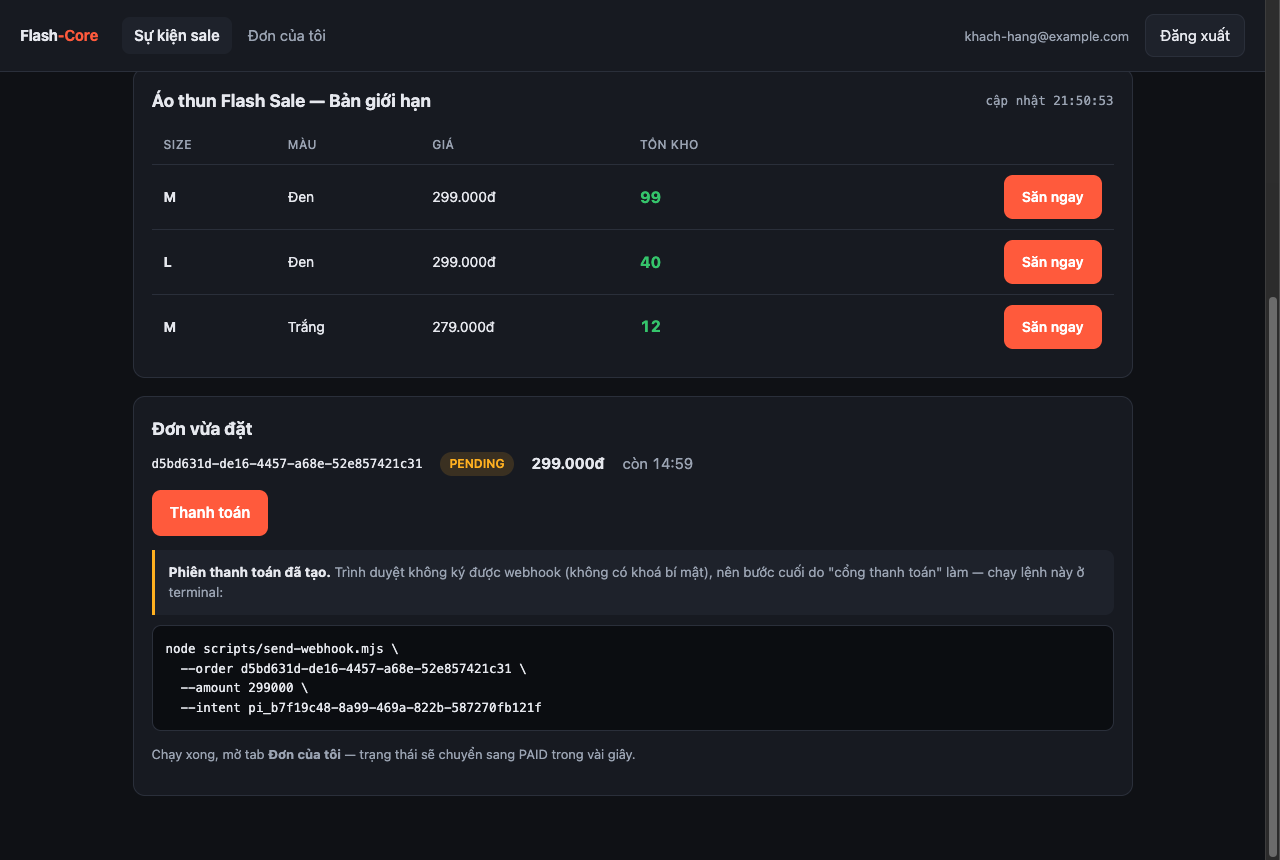
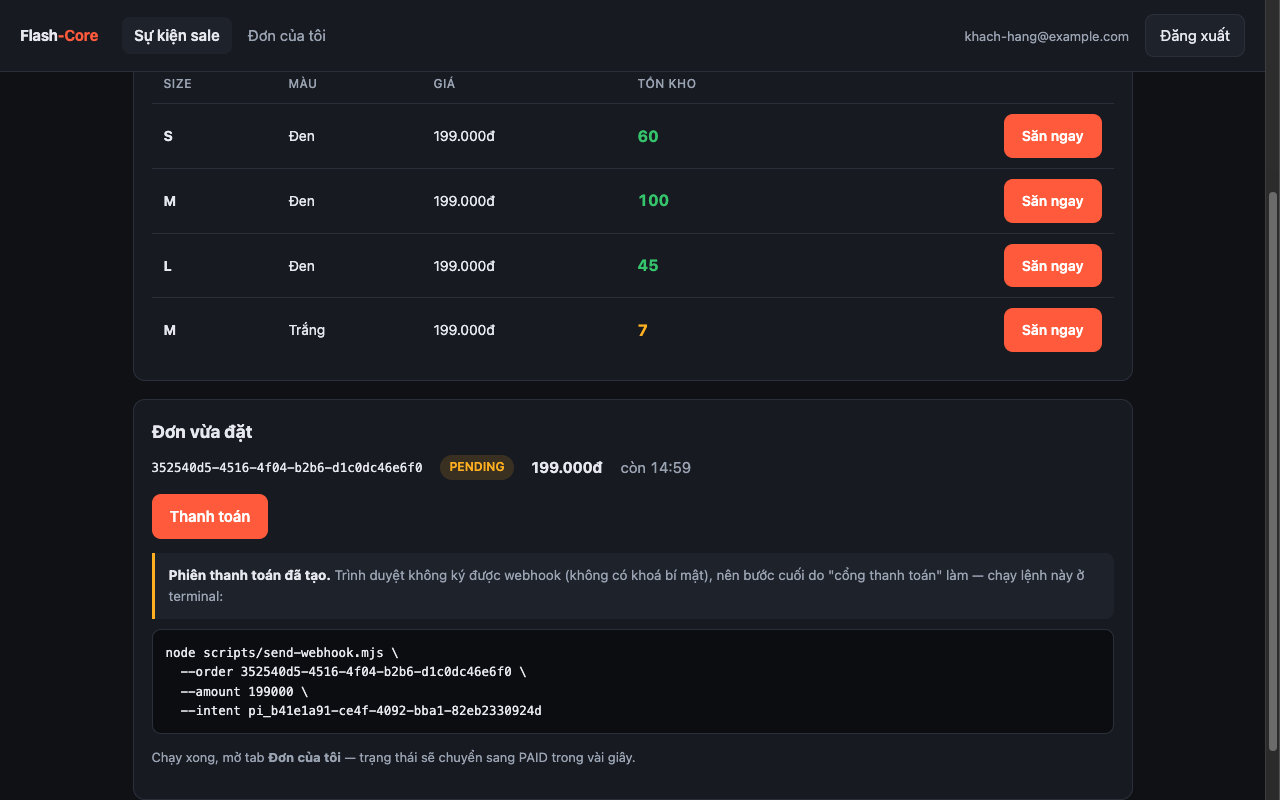
docs(demo): chụp lại 7 ảnh trên database sạch — hết tên sản phẩm rác
Tâm hỏi "áo demo k6 là gì, áo truy vết là gì, áo benchmark là gì". Cả ba KHÔNG phải tính năng —
chúng là rác dữ liệu do chính quá trình phát triển sinh ra, và tôi để chúng lọt vào ảnh nên
người đọc không hiểu đang xem gì. Lỗi của tôi: ảnh minh hoạ nghiệp vụ mà lại chụp trên DB dev
đầy dữ liệu thử nghiệm.

Nguồn của từng cái tên:
- "Áo benchmark <số>" — k6/seed-target.js tạo mới mỗi lần chạy load test
- "Seed Product <số>" — npm run seed, 10.000 dòng để đo EXPLAIN ở Phase 2
- "Áo demo k6" / "Áo truy vết" / "Áo rút dây mạng" / "Áo demo Phase 4" — tôi tạo khi kiểm thử

Sửa: chụp lại toàn bộ trên một database RIÊNG và sạch (`flashcore_demo`, queue prefix riêng để
không tranh job với worker dev), dựng 3 mẫu áo đúng như một shop thật:
- Áo thun Basic Cotton 100% — S/Đen 60 · M/Đen 100 · L/Đen 45 · M/Trắng 8
- Áo Polo cổ dệt — M/Xanh navy 25 · L/Xanh navy 30
- Áo thun Oversize in hoạ tiết — L/Xám 12 · XL/Xám 0 (để thấy nút "Hết hàng")

Bộ số này chọn có ý: 4 biến thể cùng một mẫu áo cho thấy rõ "tồn kho theo SKU biến thể" — số 8
hiện màu vàng (sắp hết), số 0 hiện đỏ kèm nút "Hết hàng". Đơn demo đặt ở dòng M/Trắng nên tồn
kho tụt 8 → 7, dễ thấy hơn 100 → 99. Mẫu cho benchmark đặt tên thẳng là "Áo thun Flash Sale
20:00 — 100 chiếc" thay vì "Áo benchmark <timestamp>".

Chú thích ảnh viết lại theo số liệu mới, và thêm một ghi chú đầu mục giải thích rằng DB dev
thường lẫn sản phẩm rác từ seed/benchmark — để lần sau đọc không phải hỏi lại.
[…]

diff --git a/docs/html/demo-phong-van.html b/docs/html/demo-phong-van.html
@@ -34,12 +34,13 @@
 <p>Ba điều đáng chú ý, và cả ba đều là quyết định nghiệp vụ chứ không phải kỹ thuật:</p>
 <ol><li><strong>Trừ kho ngay lúc bấm</strong>, không đợi trả tiền. Nếu đợi, hai người cùng "giữ" một chiếc áo và người trả tiền sau sẽ mất hàng — tệ hơn nhiều.</li><li><strong>Giữ chỗ 15 phút</strong> rồi tự huỷ. Không có nó thì người bấm mà không trả tiền sẽ giam hàng vĩnh viễn.</li><li><strong>Huỷ thì phải trả hàng về kho</strong>, và trả <strong>đúng một lần</strong>. Trả hai lần là tự sinh ra hàng không tồn tại.</li></ol>
 <h3 id="luồng-dùng-app-bảy-bước-có-ảnh-thật">Luồng dùng app — bảy bước, có ảnh thật</h3>
+<blockquote class="note"><p><strong>Về dữ liệu trong các ảnh dưới đây.</strong> Chúng được chụp trên một database <strong>riêng và sạch</strong> (<code>flashcore_demo</code>) với ba mẫu áo dựng đúng như một shop thật. Database dev thường lẫn nhiều sản phẩm rác do chính quá trình phát triển sinh ra — <code>Áo benchmark &lt;số&gt;</code> do <code>k6/seed-target.js</code> tạo mỗi lần chạy load test, <code>Seed Product &lt;số&gt;</code> do <code>npm run seed</code> tạo 10.000 dòng để đo <code>EXPLAIN</code> ở Phase 2, và vài mẫu tên kiểu <code>Áo demo…</code> / <code>Áo rút dây mạng</code> do người viết tài liệu tạo khi kiểm thử. <strong>Chúng không phải tính năng của app</strong> — nếu anh mở DB dev và thấy chúng thì đó chỉ là rác dữ liệu, xoá được hoặc bỏ qua được.</p></blockquote>
 <h4 id="bước-1-đăng-nhập">Bước 1 · Đăng nhập</h4>
 <p><img src="assets/img/ui-1-dang-nhap.png" alt="Màn đăng nhập" loading="lazy"> <em>Chưa có tài khoản thì bấm <strong>Đăng ký</strong> — nó tự đăng nhập luôn. Token nằm trong cookie <code>HttpOnly</code>, JavaScript không đọc được (đó là chủ đích, chống XSS lấy mất token).</em></p>
 <h4 id="bước-2-màn-sự-kiện-sale-nơi-nhìn-thấy-tồn-kho">Bước 2 · Màn "Sự kiện sale" — nơi nhìn thấy tồn kho</h4>
-<p><img src="assets/img/ui-2-su-kien-sale.png" alt="Màn sự kiện sale với lưới áo và bảng SKU" loading="lazy"> <em>Phía trên là lưới <strong>mẫu áo</strong>; bấm một mẫu thì bảng bên dưới hiện các <strong>biến thể (SKU)</strong> của nó. Mỗi dòng là một tổ hợp <strong>size × màu</strong>, và <strong>tồn kho đếm riêng cho từng dòng</strong> — "áo đen size M" hết không có nghĩa "áo trắng size M" hết. Con số ở cột Tồn kho <strong>tự cập nhật mỗi 1,5 giây</strong>, nên mở hai tab sẽ thấy chúng đổi cùng nhau.</em></p>
+<p><img src="assets/img/ui-2-su-kien-sale.png" alt="Màn sự kiện sale với lưới áo và bảng SKU" loading="lazy"> <em>Phía trên là lưới <strong>mẫu áo</strong> (ở đây: Basic Cotton, Polo, Oversize); bấm một mẫu thì bảng bên dưới hiện các <strong>biến thể (SKU)</strong> của nó. Mỗi dòng là một tổ hợp <strong>size × màu</strong> với tồn kho riêng: <code>S/Đen 60</code> · <code>M/Đen 100</code> · <code>L/Đen 45</code> · <code>M/Trắng 8</code>. Vậy "áo đen size M" hết <strong>không</strong> có nghĩa "áo trắng size M" hết — đó là ý nghĩa của "tồn kho theo SKU biến thể". Số <code>8</code> hiện màu vàng vì sắp hết; <code>0</code> sẽ đỏ và nút chuyển thành "Hết hàng". Con số <strong>tự cập nhật mỗi 1,5 giây</strong>, nên mở hai tab sẽ thấy chúng đổi cùng nhau.</em></p>
 <h4 id="bước-3-bấm-săn-ngay-đơn-giữ-chỗ">Bước 3 · Bấm "Săn ngay" → đơn giữ chỗ</h4>
-<p><img src="assets/img/ui-3-don-giu-cho.png" alt="Đơn PENDING với đếm ngược 15 phút" loading="lazy"> <em>Tồn kho tụt <strong>100 → 99</strong> ngay lập tức, và một đơn <code>PENDING</code> hiện ra kèm <strong>đếm ngược 14:59</strong>. Đơn đã giữ chỗ nhưng <strong>chưa trả tiền</strong>. Nếu hết hàng thì nút chuyển thành "Hết hàng" và bấm sẽ báo lỗi 409 — đó là trạng thái bình thường của flash sale, không phải lỗi hệ thống.</em></p>
+<p><img src="assets/img/ui-3-don-giu-cho.png" alt="Đơn PENDING với đếm ngược 15 phút" loading="lazy"> <em>Bấm "Săn ngay" ở dòng <code>M/Trắng</code> — tồn kho tụt <strong>8 → 7</strong> ngay lập tức, và một đơn <code>PENDING</code> hiện ra kèm <strong>đếm ngược 14:59</strong>. Đơn đã giữ chỗ nhưng <strong>chưa trả tiền</strong>. Nếu hết hàng thì nút chuyển thành "Hết hàng" và bấm sẽ báo lỗi 409 — đó là trạng thái bình thường của flash sale, không phải lỗi hệ thống.</em></p>
 <h4 id="bước-4-bấm-thanh-toán">Bước 4 · Bấm "Thanh toán"</h4>
 <p><img src="assets/img/ui-4-thanh-toan.png" alt="Lệnh send-webhook hiện ra sau khi tạo phiên thanh toán" loading="lazy"> <em>Trang <strong>không</strong> tự đánh dấu đã trả tiền được — nó chỉ tạo một phiên thanh toán rồi hiện ra lệnh để copy. <strong>Đó là điểm cần nhấn khi demo</strong>: trình duyệt không giữ khoá bí mật nên không ký nổi webhook. Nếu nó ký được thì việc verify chữ ký ở phía server là vô nghĩa, và ai cũng đánh dấu đơn của người khác là "đã trả tiền" được.</em></p>
 <h4 id="bước-5-chạy-lệnh-đó-ở-terminal-đóng-vai-cổng-thanh-toán">Bước 5 · Chạy lệnh đó ở terminal — đóng vai cổng thanh toán</h4>
@@ -50,7 +51,7 @@
 <p><img src="assets/img/ui-5-don-cua-toi.png" alt="Đơn đã chuyển sang PAID" loading="lazy"> <em>Trạng thái đã là <strong>PAID</strong>, cột "Còn lại" thành <code>—</code> vì đơn không còn đếm ngược nữa. Nếu để đơn quá 15 phút mà không chạy lệnh trên, chính bảng này sẽ tự chuyển nó sang <code>CANCELLED</code> và tồn kho được cộng trả lại.</em></p>
 <h4 id="bước-7-cảnh-đáng-giá-nhất-1000-người-bấm-cùng-lúc">Bước 7 · Cảnh đáng giá nhất — 1.000 người bấm cùng lúc</h4>
 <p>Đây là lý do cả dự án tồn tại. Chọn một mẫu có <code>stock = 100</code>:</p>
-<p><img src="assets/img/ui-6-truoc-k6.png" alt="Tồn kho 100 trước khi chạy k6" loading="lazy"> <em>Trước khi bắn: tồn kho <strong>100</strong>, nút "Săn ngay" còn bấm được.</em></p>
+<p><img src="assets/img/ui-6-truoc-k6.png" alt="Tồn kho 100 trước khi chạy k6" loading="lazy"> <em>Một mẫu riêng dựng sẵn cho benchmark: <code>Áo thun Flash Sale 20:00 — 100 chiếc</code>. Trước khi bắn: tồn kho <strong>100</strong>, nút "Săn ngay" còn bấm được.</em></p>
 <p>Rồi chạy k6 (1.000 người dùng ảo, mỗi người bấm mua một lần):</p>
 <pre><code>201 (bán được):    100   ← đúng 100
 409 (hết hàng):    900   ← trạng thái nghiệp vụ, KHÔNG phải lỗi
